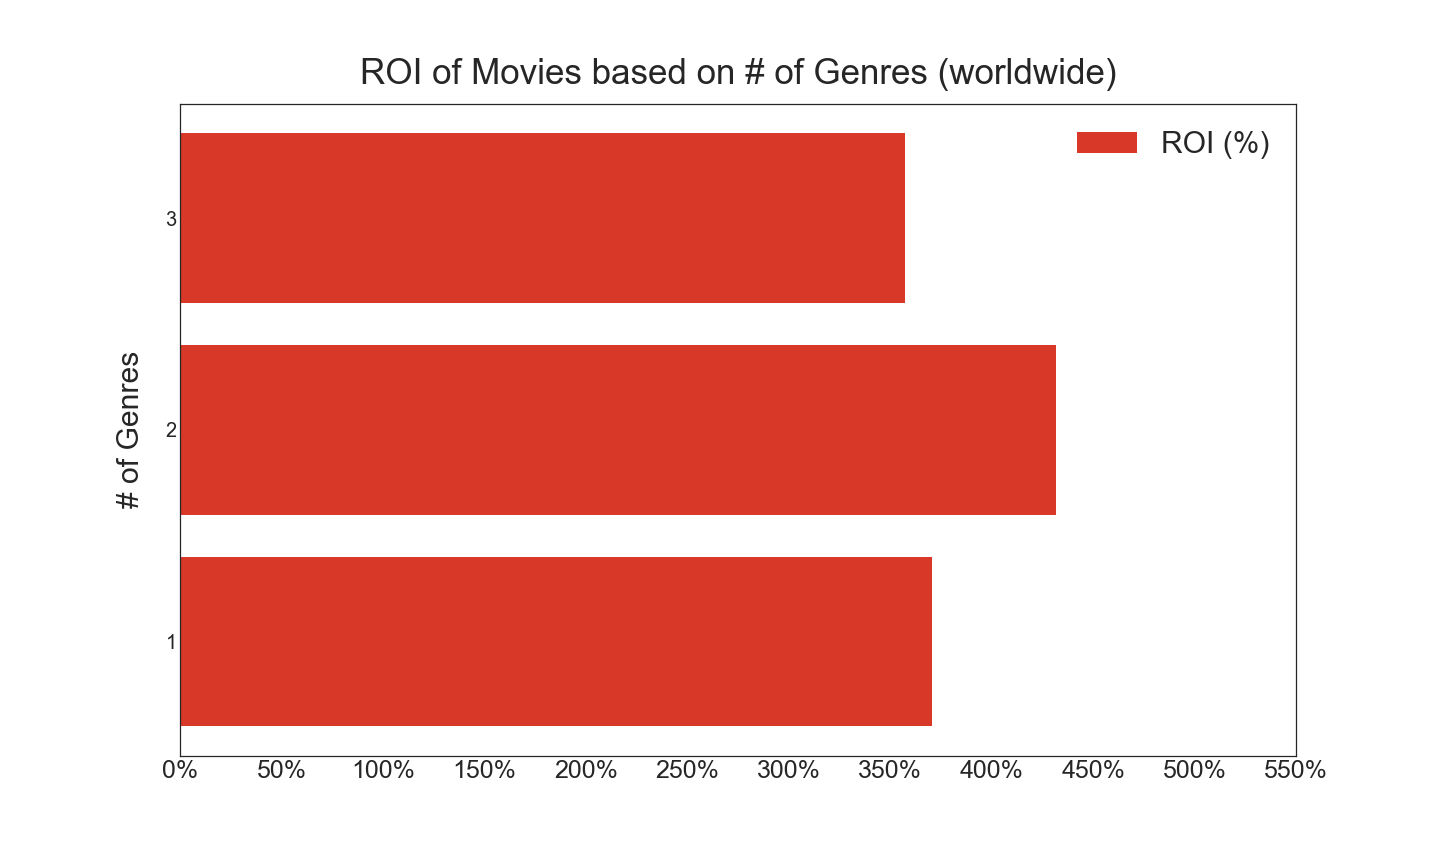
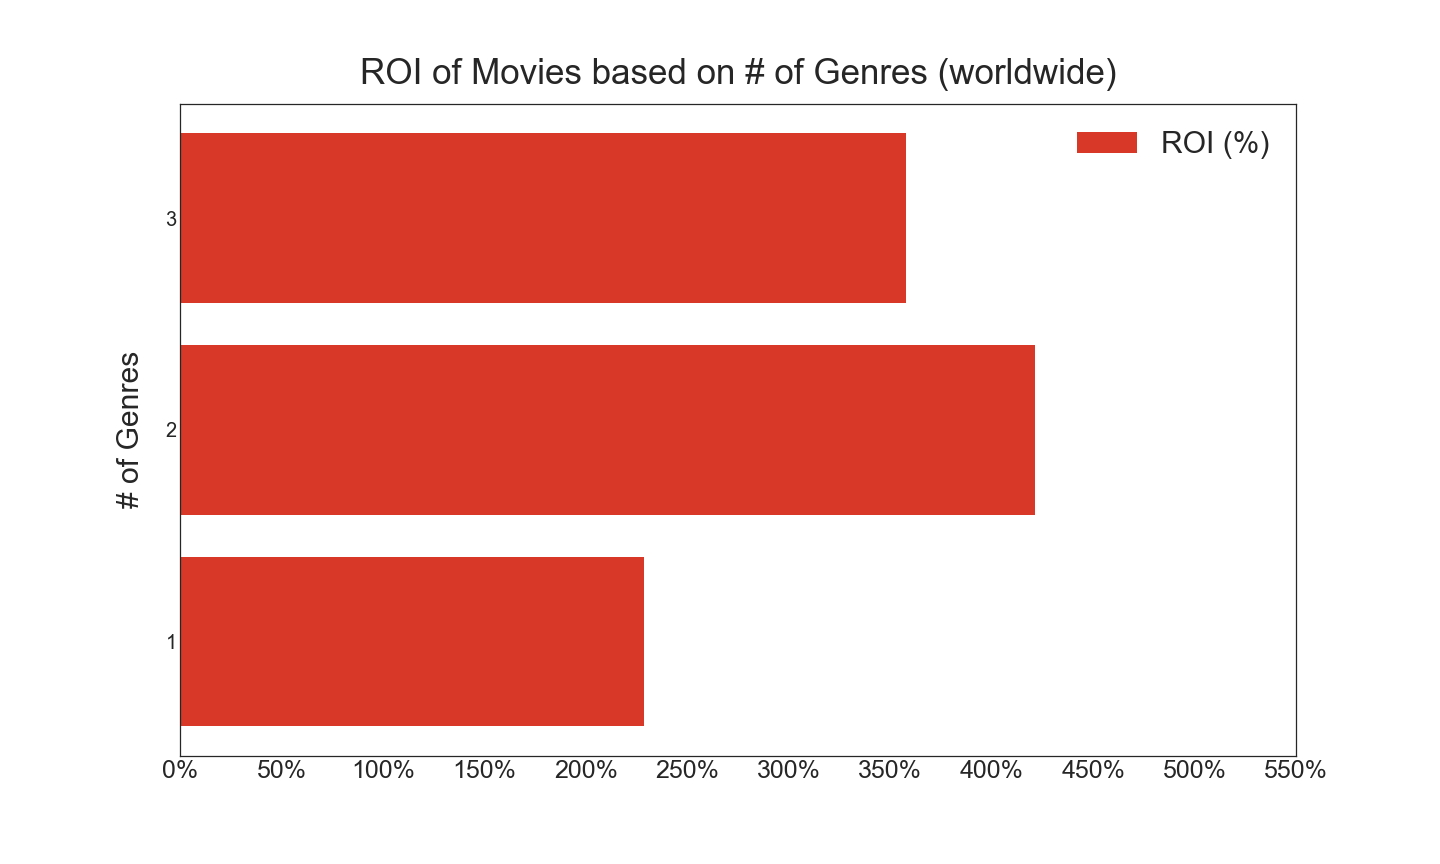
Brian finished Readme, uploading to repo

Changed region(s): [[0.4375, 0.625, 0.6562, 0.8438], [0.7188, 0.375, 0.75, 0.5938]]

diff --git a/README.md b/README.md
@@ -1,0 +1,64 @@
+# Microsoft Studio Movie Analysis
+
+
+![image.png](attachment:image.png)
+
+## Overview
+
+This project analyzes the data from IMDB and The Numbers. The IMDB data consisted of general information such as the movie titles, release dates, actor and director information, etc. The Numbers data consisted of budgets and gross earnings. Microsoft Studios can use this data to discover the most profitable way to enter into the film industry.
+
+## Business Problem
+
+![image-2.png](attachment:image-2.png)
+
+Microsoft Studios desires to enter into the film industry with the most optimal roadplan possible. This movie data analysis' aim is to provide Microsoft Studios with conclusions to their relevant questions.
+
+## Data Understanding
+
+![image-3.png](attachment:image-3.png)
+
+The IMDB database has unique IDs for each movie and persons associated with the film projects. The Numbers database has each project budget and gross revenue for both domestic and worldwide. We merged the data and calcuate the Return on Investment (ROI) to display the director, genre, financial details. The data loaded below is saved as Pandas Dataframes in which analysis was conducted on.
+
+## Methods
+
+This project uses descriptive analysis, including analysis of movie genres with ROI and directors by genre with higher ROI. This provides a insightful overview of the film industry for Mircosoft's new movie studio to identify the desired movie types with director recommendation.
+
+## Results
+
+Top 5 highest ROI movie genres are Biography, Horror, Documentary, Action and Comedy. Their average ROI is over 350+%, and Biography and Horror genres stand out among the top 5 with 550+% ROI.
+
+average roi by genre.png
+
+top 5 roi genre.png
+
+Also a mix of 2 genres appears to be a key indicator for higher ROI. Their average is about 60% higher than the other number of genres mixed in a movie.
+
+roi based on num of genres.png
+
+These are the lineups of high ROI producing directors for respective genres.
+
+top5 directors biography.png
+top5 directors horror.png
+top5 directors documentary.png
+top5 directors action.png
+top5 directors comedy.png
+
+## Conclusions
+
+This analysis leads to the below recommendations for Microsoft's new studio:
+
+Highly recommend a film with 2 genres mixed. Then, select two genres from top 5 highest genres and work with recommended directors suggested by respective genres. This will allow the new studio to create a product that would be profitable to make entrance into a film industry. 
+
+
+## Next Steps
+
+Further analyses could yield additional insights to improve to studio's decision making:
+
+*Actors who yield highest ROI
+*Whether Franchise or Single movies generate better profits
+*American Studios versus International Studios
+*Indie Films versus Studio Films
+*Best Release Time
+*Best Runtime
+
+
